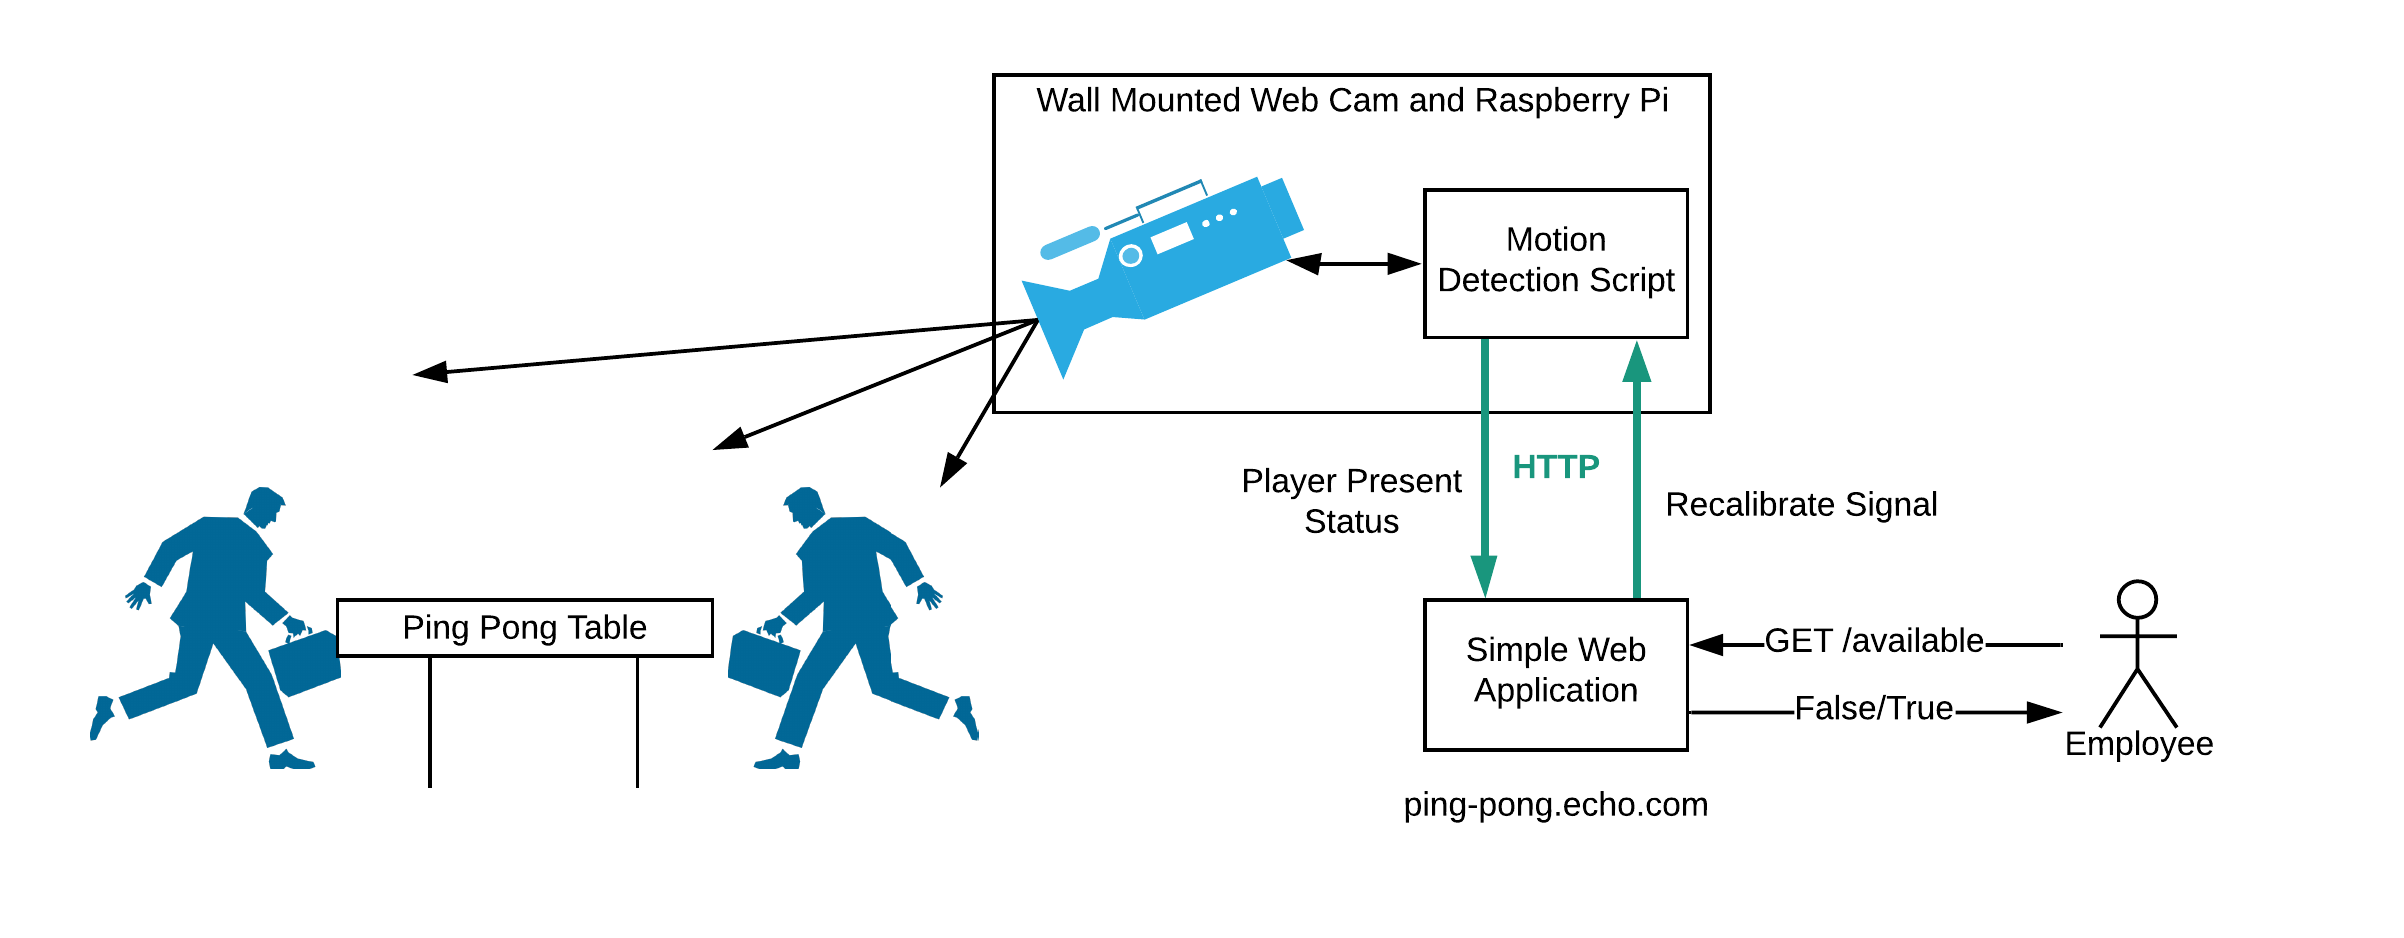
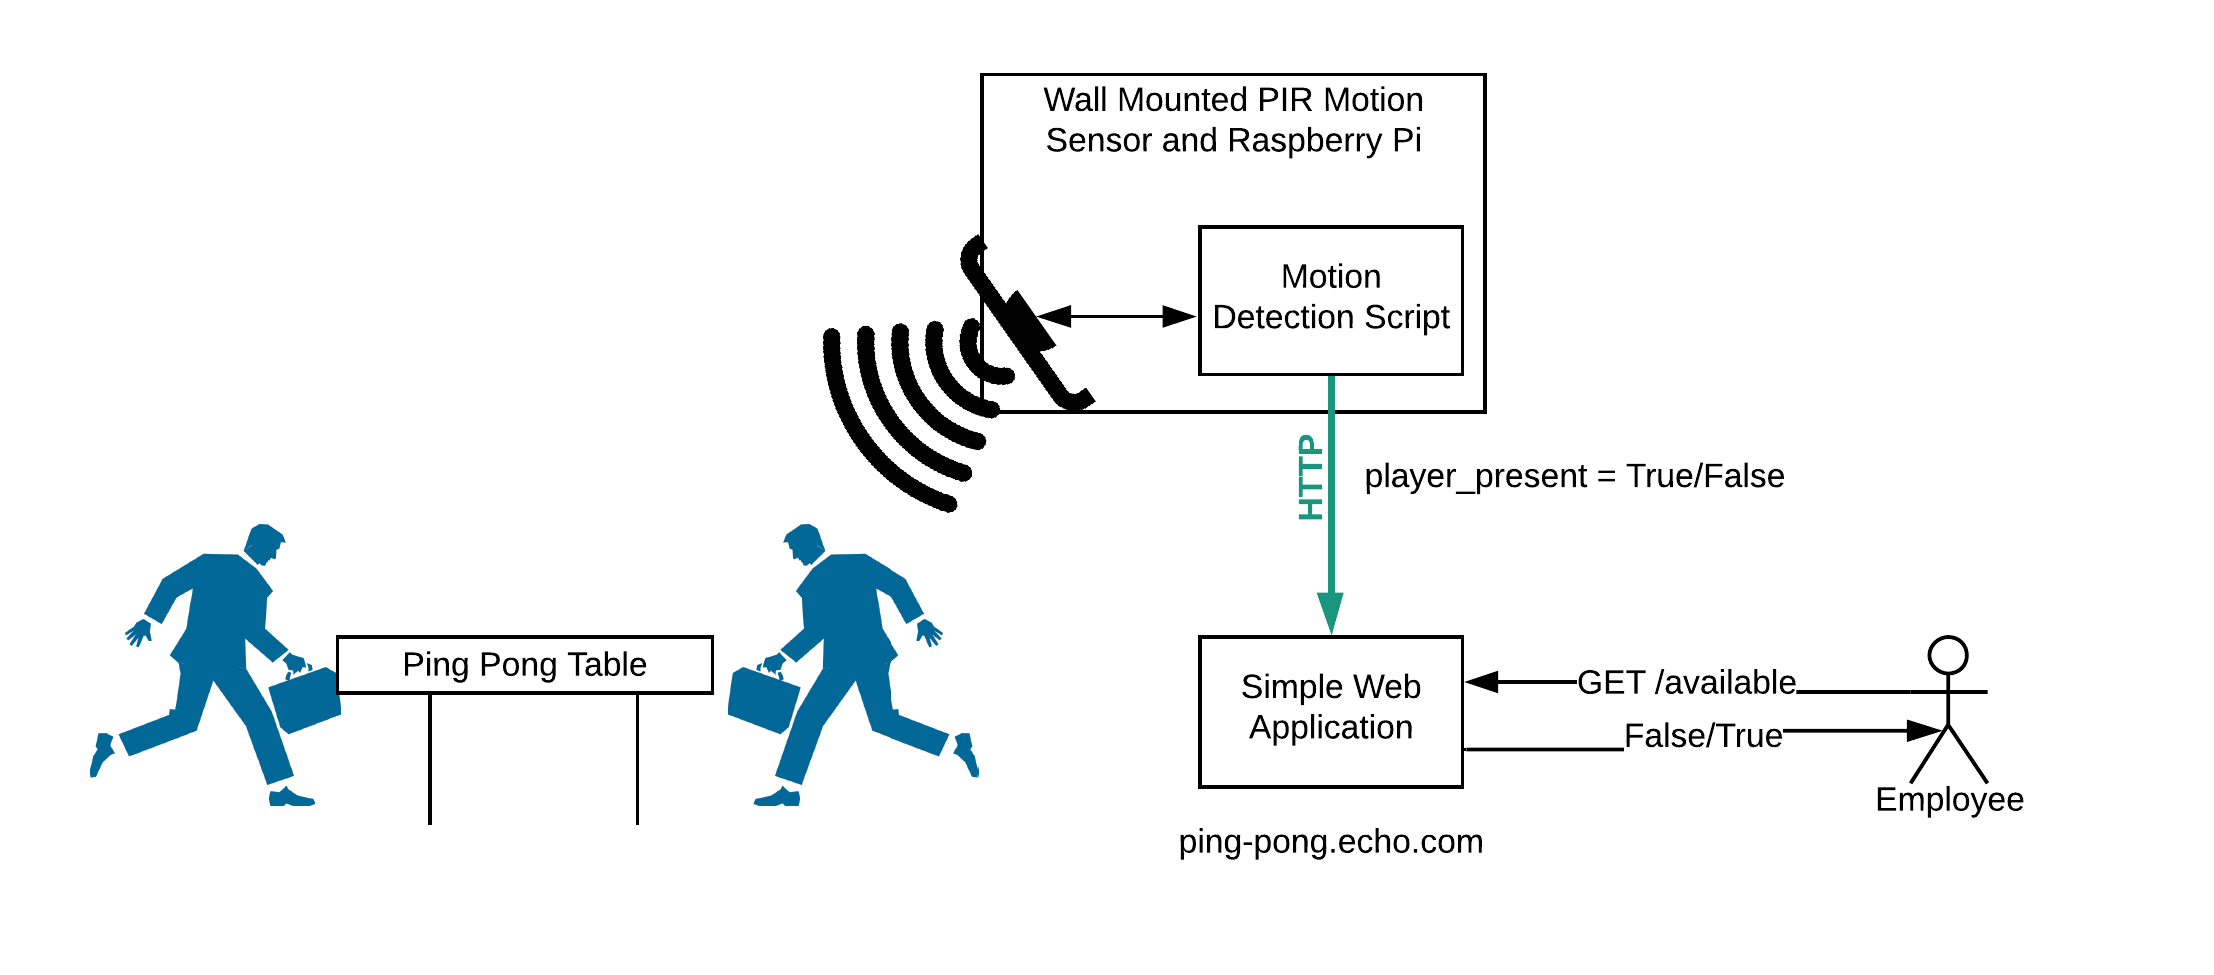
updated readme and images

diff --git a/README.md b/README.md
@@ -5,6 +5,14 @@ A collection of applications responsible for letting us know if the ping pong ta
 People currently have to walk all the way to the ping pong table (or take the elevator up here) just to find out someone is already playing, leaving them to wait for the previous players to finish playing.
 
 ## The Solution:
-To set up a webcam attached to a raspberry pi that will detect motion and then send a signal off to a web server which stores the latest status. This web server would be available at an address like `ping-pong.echo.com` which will then take the value we stored and display something along the lines of "The table is free" or the "The table is currently being used". Now, all of this is just a rough and dirty initial implementation, but with that data we'd then be able to visualize the most common playing times throughout the day, how long the average play session is, etc
+We will set up a PIR motion sensor (or webcam) attached to a raspberry pi that will detect motion and then send a signal off to a web server which stores the latest status. This web server would be available at an address like `ping-pong.echo.com` which will then take the value we stored and display something along the lines of "The table is free" or the "The table is currently being used". Now, all of this is just a rough and dirty initial implementation, but with that data we'd then be able to visualize the most common playing times throughout the day, how long the average play session is, etc
+
+## Version 1: A PIR Motion Sensor
 ![Version 1](https://github.com/zmailloux/ping-pong-monitor/blob/master/Ping%20Pong%20Monitor%20-%20V1.png)
-Version 1
+
+
+
+## Version 2: A Webcam Motion Sensor
+This version provides the benefit of **eventually** having a video feed into a grafana dashboard. This version however may face some kick back from HR.
+<!-- ![Version 2](https://github.com/zmailloux/ping-pong-monitor/blob/master/Ping%20Pong%20Monitor%20-%20V2.png) -->
+![Version 3](https://github.com/zmailloux/ping-pong-monitor/blob/master/Ping%20Pong%20Monitor%20-%20V3.png)
